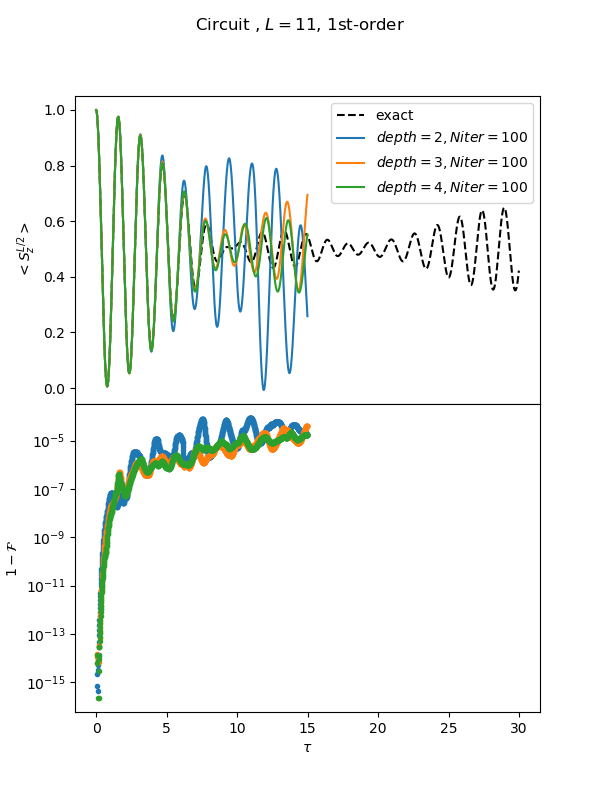
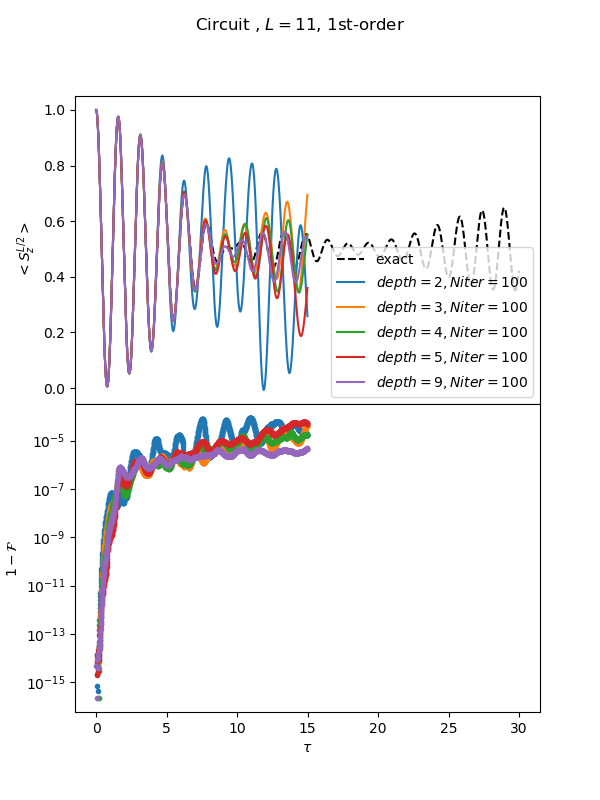
mps convergence

diff --git a/run_te_qtebd_mps.py b/run_te_qtebd_mps.py
@@ -39,9 +39,12 @@ if __name__ == "__main__":
     ## [TODO] add check whether data already
 
     J = 1.
+    tol = 1e-8
+    cov_crit = 1e-9
+    max_N_iter = 100
     N_iter = 10
     dt = 0.01
-    total_t = 15
+    total_t = 10
     Sz_list = [np.array([[1, 0.], [0., -1.]]) for i in range(L)]
     H_list =  qTEBD.get_H(L, J, g, Hamiltonian)
     A_list = [np.array([1., 0.]).reshape([2, 1, 1]) for i in range(L)]
@@ -111,11 +114,24 @@ if __name__ == "__main__":
         #      )
 
         ### POLAR DECOMPOSITION UPDATE ###
-        fidelity_before = np.abs(qTEBD.overlap(Ap_list, A_list))**2 / qTEBD.overlap(Ap_list, Ap_list)
+        Ap_norm_sq = qTEBD.overlap(Ap_list, Ap_list)
+        fidelity_before = np.abs(qTEBD.overlap(Ap_list, A_list))**2 / Ap_norm_sq
         print("fidelity before : ", fidelity_before)
-        for a in range(N_iter):
-            A_list  = qTEBD.var_A(A_list, Ap_list, 'left')
-            # A_list  = qTEBD.var_A(A_list, Ap_list, 'right')
+
+        A_list, overlap  = qTEBD.var_A(A_list, Ap_list, 'left')
+        F = np.abs(overlap) ** 2 / Ap_norm_sq
+        num_iter = 0
+        F_diff = 1
+        while ( num_iter < max_N_iter and 1-F > tol and F_diff > cov_crit):
+            num_iter = num_iter + 1
+            print("sweeping right")
+            A_list, overlap  = qTEBD.var_A(A_list, Ap_list, 'right')
+            print("sweeping left")
+            A_list, overlap  = qTEBD.var_A(A_list, Ap_list, 'left')
+            new_F = np.abs(overlap) ** 2 / Ap_norm_sq
+            F_diff = np.abs(new_F - F)
+            F = new_F
+            print(" F = ", F)
 
 
         # else:
@@ -135,7 +151,7 @@ if __name__ == "__main__":
         #             # A_list[idx_2] = A_list[idx_2] + dt * grad_A_list[idx_2]
 
         #     for a in range(N_iter):
-        #         A_list  = qTEBD.var_A(A_list, A_list, 'right')
+        #         A_list, overlap  = qTEBD.var_A(A_list, A_list, 'right')
 
         # ############################################
         # ### Hamiltonian expectation minimization ###
@@ -155,7 +171,7 @@ if __name__ == "__main__":
         # #         # A_list[idx_2] = A_list[idx_2] + dt * grad_A_list[idx_2]
 
         # #     for a in range(N_iter):
-        # #         A_list  = qTEBD.var_A(A_list, A_list, 'right')
+        # #         A_list, overlap  = qTEBD.var_A(A_list, A_list, 'right')
 
         fidelity_reached = np.abs(qTEBD.overlap(Ap_list, A_list))**2 / qTEBD.overlap(Ap_list, Ap_list)
         print("fidelity reached : ", fidelity_reached)

diff --git a/qTEBD.py b/qTEBD.py
@@ -608,7 +608,8 @@ def var_A(A_list, Ap_list, sweep='left'):
             A_list_new[i] = polar(theta).conj()
             Rp = np.tensordot(A_list_new[i], Rp, axes=([0,2], [0,2]))
 
-        return A_list_new
+        final_overlap = np.einsum('ijk,ijk->', A_list_new[0], theta)
+        return A_list_new, final_overlap
     elif sweep == 'right':
         Rp = np.ones([1, 1])
         Rp_list = [Rp]
@@ -630,7 +631,8 @@ def var_A(A_list, Ap_list, sweep='left'):
             # print("overlap : ", np.einsum('ijk,ijk->', theta, polar(theta).conj()))
             Lp = np.tensordot(A_list_new[idx], Lp, axes=([0, 1], [1, 0]))
 
-        return A_list_new
+        final_overlap = np.einsum('ijk,ijk->', A_list_new[L-1], theta)
+        return A_list_new, final_overlap
     else:
         raise NotImplementedError
 

diff --git a/README.md b/README.md
@@ -50,7 +50,7 @@ L 10 1st order trotter       |  L 10 2nd order trotter
 ### TFI g = 0.1
 MPS       |  Circuit
 :---------------------------:|:-------------------------:
-![](figure/time_evolv_TFI/mps_L11_g0.1_1st.png)  |  ![](figure/time_evolv_TFI/circuit_L11_g0.1_1st.png)
+![](figure/time_evolv_TFI/mps_L11_g0.1_2nd.png)  |  ![](figure/time_evolv_TFI/circuit_L11_g0.1_1st.png)
 
 
 ### Single-layer circuit
